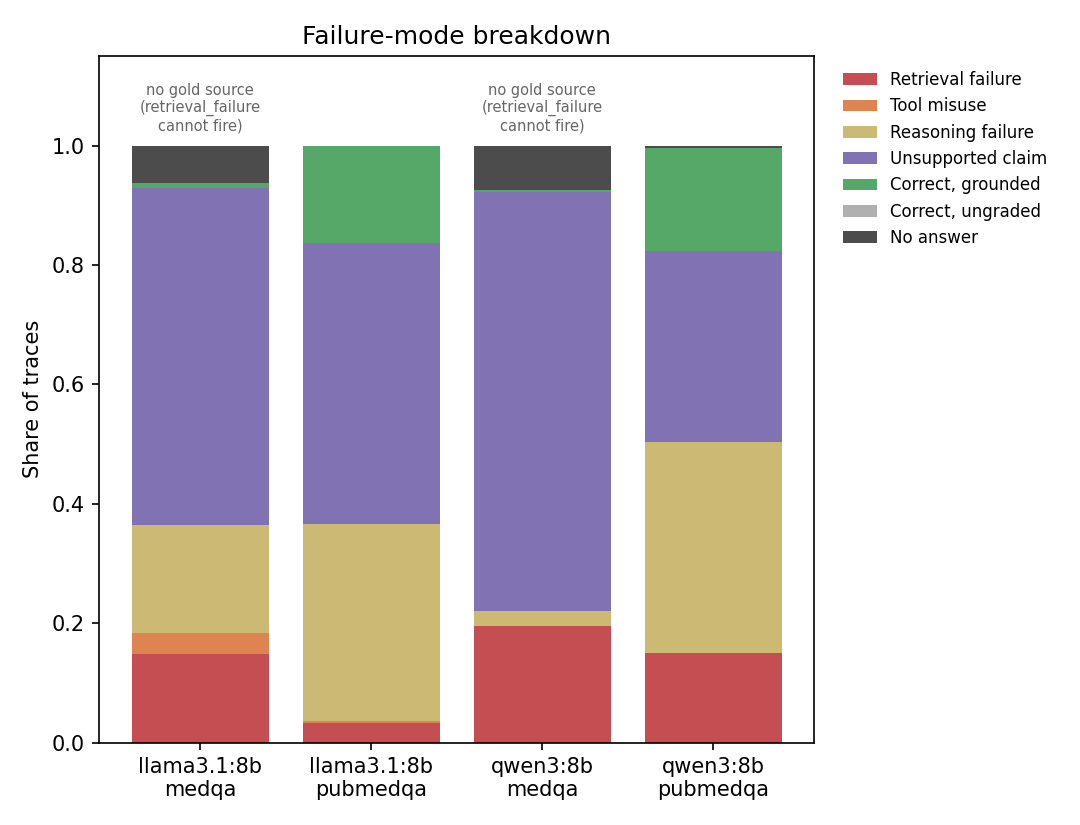
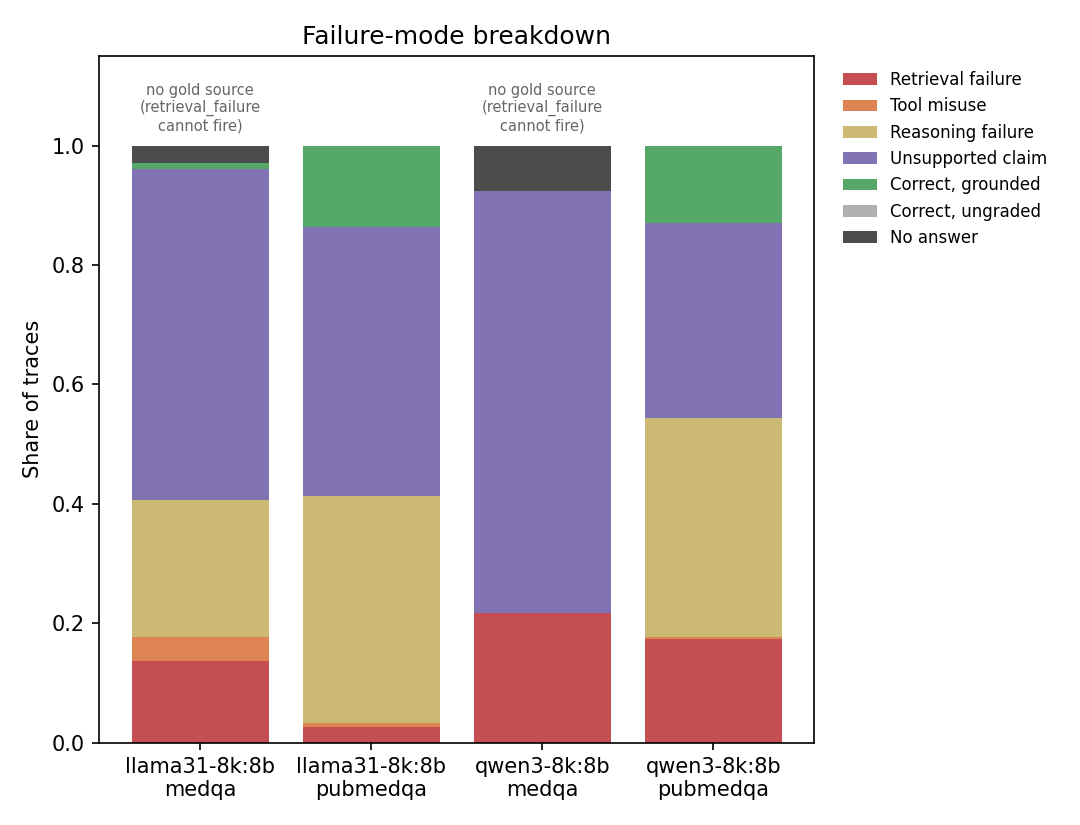
results: final test-split evaluation, both models
Headline numbers on the held-out test split, scored by a classifier validated at kappa 0.737 against blind human labels.

Accuracy crosses over by dataset, as it did on dev: qwen3 leads MedQA 76.5% [71.5, 81.2] against 58.1% [52.2, 63.6], and trails on PubMedQA 45.7% [40.3, 51.3] against 58.7% [53.0, 64.0]. Reporting either model alone would have inverted the conclusion.

The grounding result holds on test. Of answers that were correct, 74.4% on PubMedQA contain at least one claim not entailed by the evidence retrieved to justify it -- 71.5% for qwen3 and 76.7% for llama3.1. PubMedQA is where the measure means what it says, since Hit@k there is 79-95%.

On MedQA the figure is 98-100%, but that measures corpus coverage rather than fabrication: the corpus is built from PubMedQA abstracts and does not cover USMLE vignettes, and qwen3 additionally answers most MedQA questions without searching at all. Reported with that caveat rather than as a hallucination rate.

diff --git a/results/tables/failure_modes.md b/results/tables/failure_modes.md
@@ -1,6 +1,6 @@
 | Experiment | Model | Dataset | N | no_answer | retrieval_failure | tool_misuse | reasoning_failure | unsupported_claim | correct_grounded | correct_ungraded |
 |---|---|---|---|---|---|---|---|---|---|---|
-| headline_llama31 | llama3.1:8b | medqa | 255 | 16 (6%) | 38 (15%) | 9 (4%) | 46 (18%) | 144 (56%) | 2 (1%) | 0 (0%) |
-| headline_llama31 | llama3.1:8b | pubmedqa | 300 | 0 (0%) | 10 (3%) | 1 (0%) | 99 (33%) | 141 (47%) | 49 (16%) | 0 (0%) |
-| headline_qwen3 | qwen3:8b | medqa | 255 | 19 (7%) | 50 (20%) | 0 (0%) | 6 (2%) | 179 (70%) | 1 (0%) | 0 (0%) |
-| headline_qwen3 | qwen3:8b | pubmedqa | 300 | 1 (0%) | 45 (15%) | 0 (0%) | 106 (35%) | 96 (32%) | 52 (17%) | 0 (0%) |
+| final_llama31 | llama31-8k:8b | medqa | 300 | 9 (3%) | 41 (14%) | 12 (4%) | 69 (23%) | 166 (55%) | 3 (1%) | 0 (0%) |
+| final_llama31 | llama31-8k:8b | pubmedqa | 300 | 0 (0%) | 8 (3%) | 2 (1%) | 114 (38%) | 135 (45%) | 41 (14%) | 0 (0%) |
+| final_qwen3 | qwen3-8k:8b | medqa | 300 | 23 (8%) | 65 (22%) | 0 (0%) | 0 (0%) | 212 (71%) | 0 (0%) | 0 (0%) |
+| final_qwen3 | qwen3-8k:8b | pubmedqa | 300 | 0 (0%) | 52 (17%) | 1 (0%) | 110 (37%) | 98 (33%) | 39 (13%) | 0 (0%) |

diff --git a/results/tables/headline.md b/results/tables/headline.md
@@ -1,6 +1,6 @@
 | Experiment | Model | Dataset | N | Answered | Accuracy (95% CI) | Hit@k | Tool P/R |
 |---|---|---|---|---|---|---|---|
-| headline_llama31 | llama3.1:8b | medqa | 255 | 239 | 61.1% [54.8%, 67.4%] | n/a | 100.0% / 86.8% (n=19) |
-| headline_llama31 | llama3.1:8b | pubmedqa | 300 | 300 | 63.3% [57.3%, 68.7%] | 94.7% | 98.3% / 97.8% (n=300) |
-| headline_qwen3 | qwen3:8b | medqa | 255 | 236 | 76.3% [70.8%, 81.8%] | n/a | 100.0% / 10.5% (n=19) |
-| headline_qwen3 | qwen3:8b | pubmedqa | 300 | 299 | 49.5% [43.8%, 55.2%] | 79.7% | 100.0% / 82.5% (n=300) |
+| final_llama31 | llama31-8k:8b | medqa | 300 | 291 | 58.1% [52.2%, 63.6%] | n/a | 95.0% / 90.5% (n=21) |
+| final_llama31 | llama31-8k:8b | pubmedqa | 300 | 300 | 58.7% [53.0%, 64.0%] | 95.3% | 98.3% / 97.7% (n=300) |
+| final_qwen3 | qwen3-8k:8b | medqa | 300 | 277 | 76.5% [71.5%, 81.2%] | n/a | n/a (n=21, no tools used) |
+| final_qwen3 | qwen3-8k:8b | pubmedqa | 300 | 300 | 45.7% [40.3%, 51.3%] | 79.3% | 100.0% / 81.0% (n=300) |
